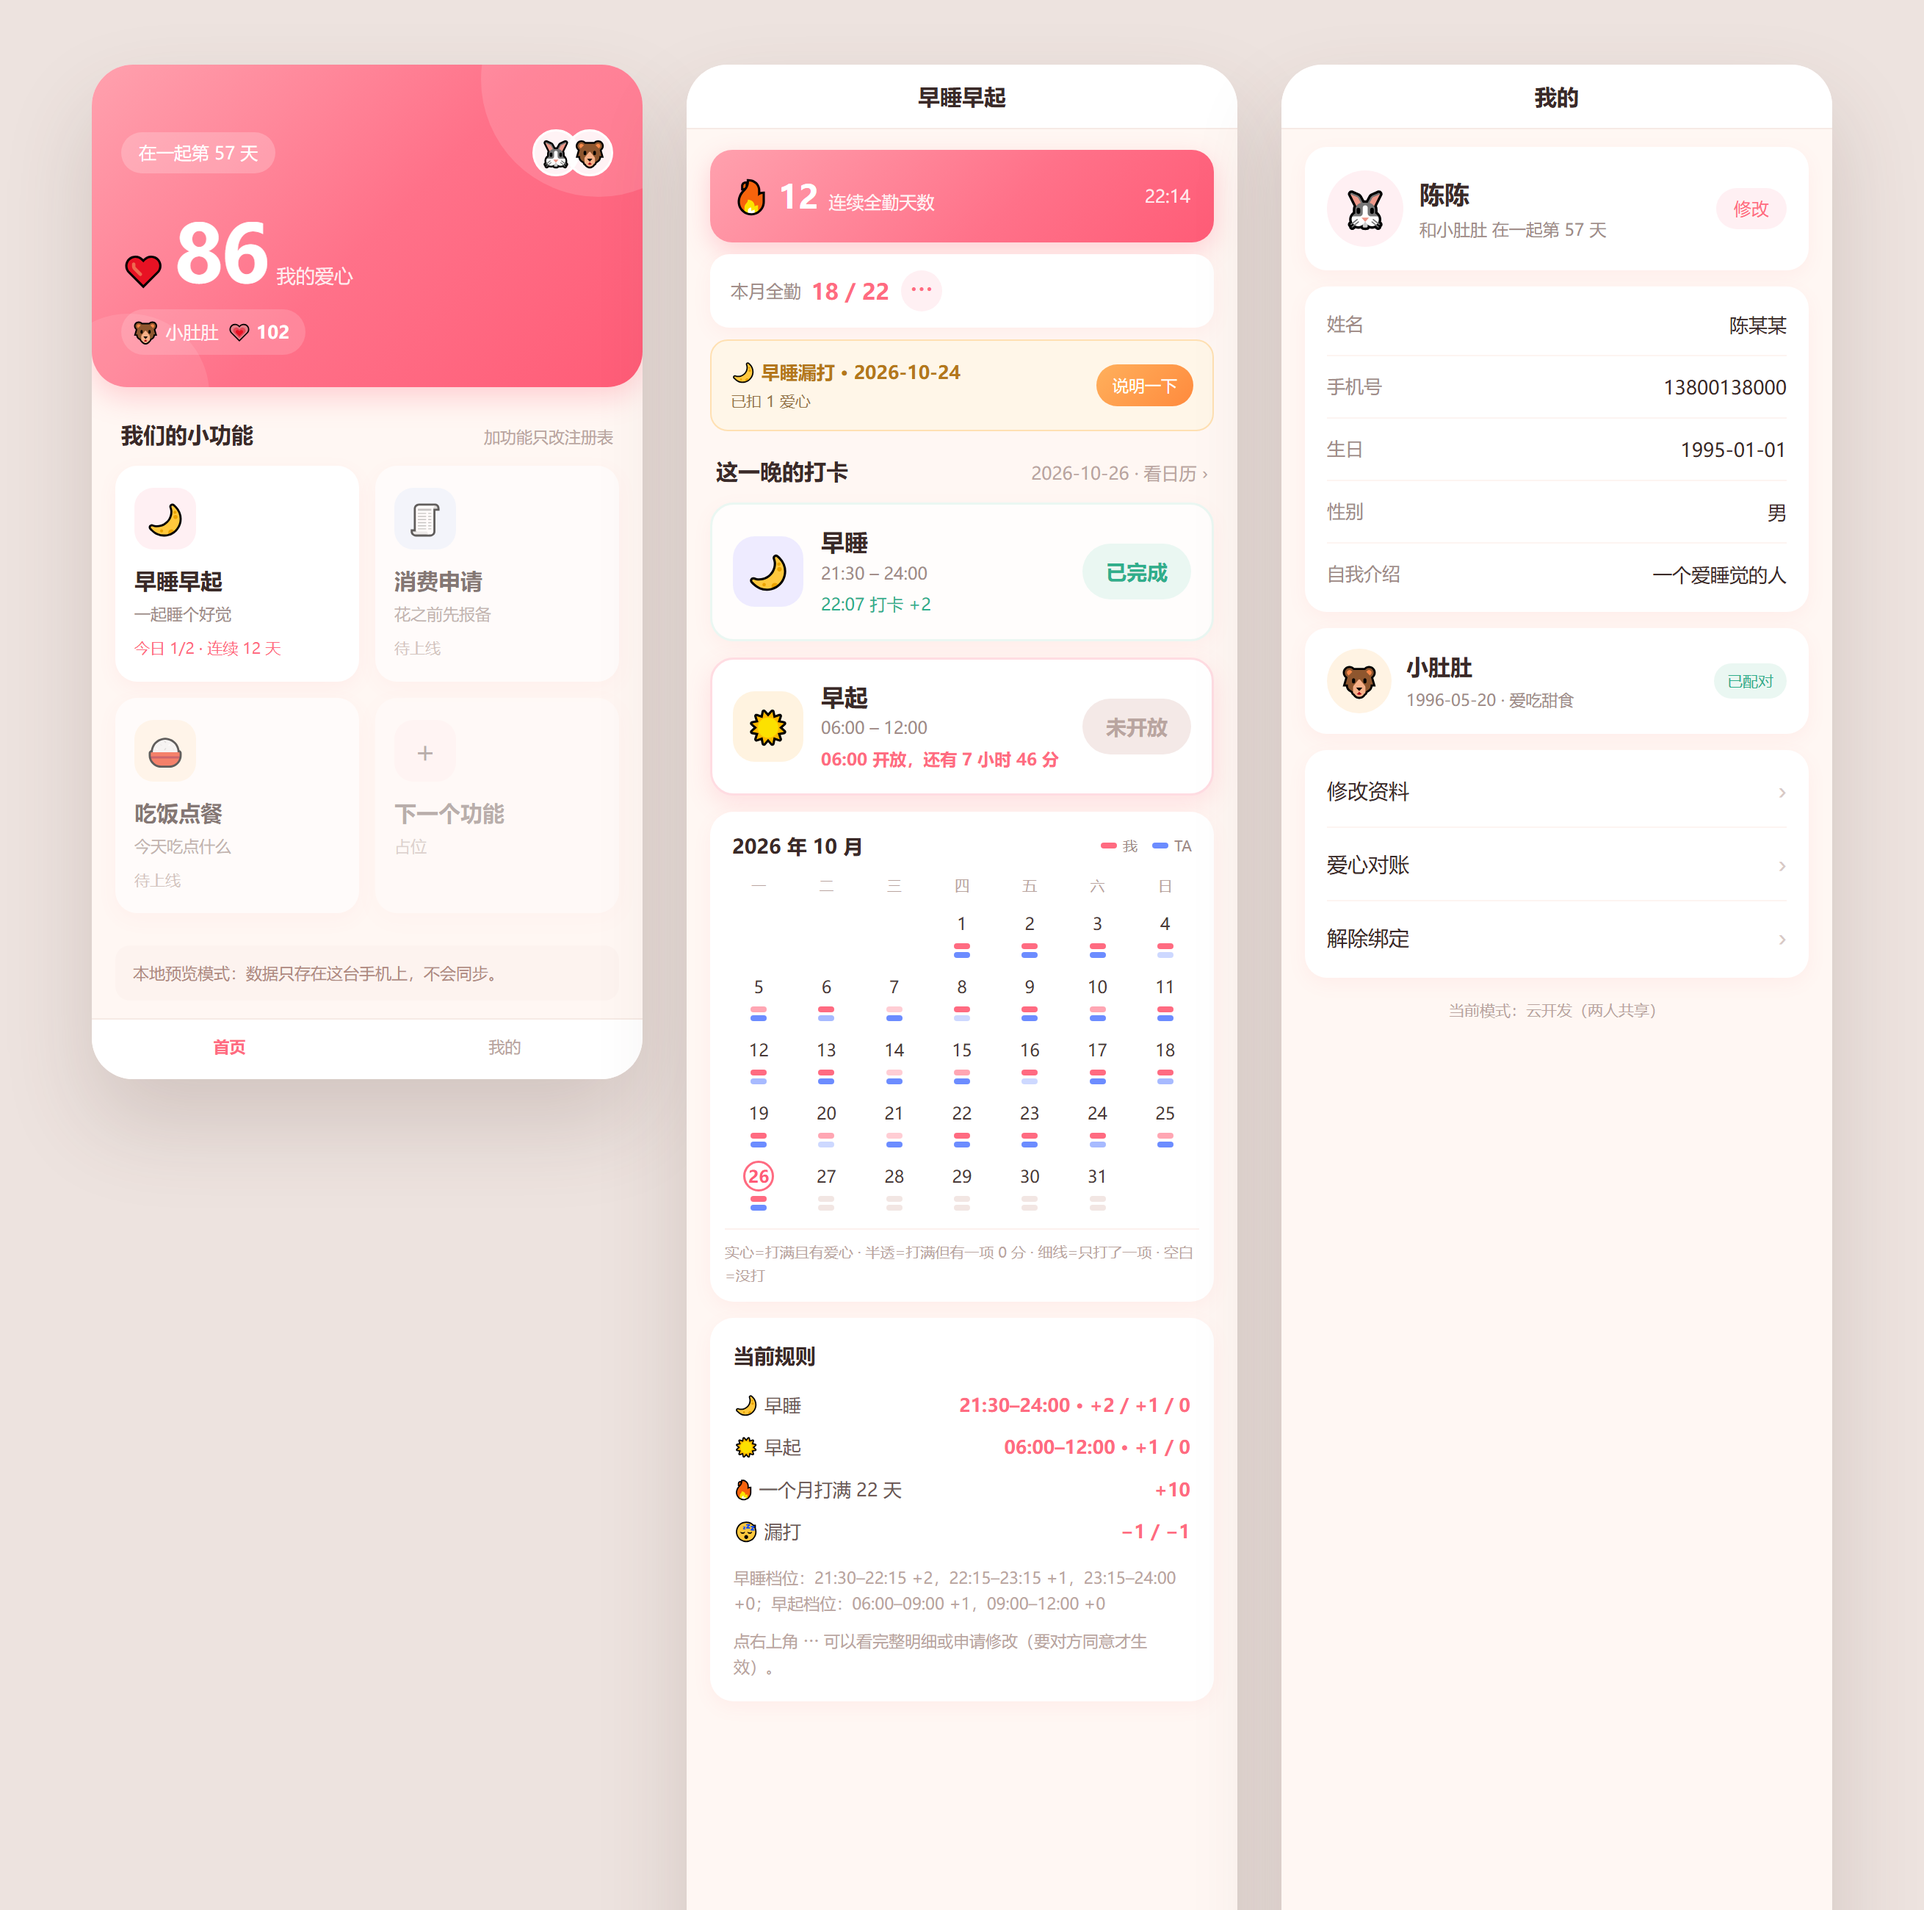
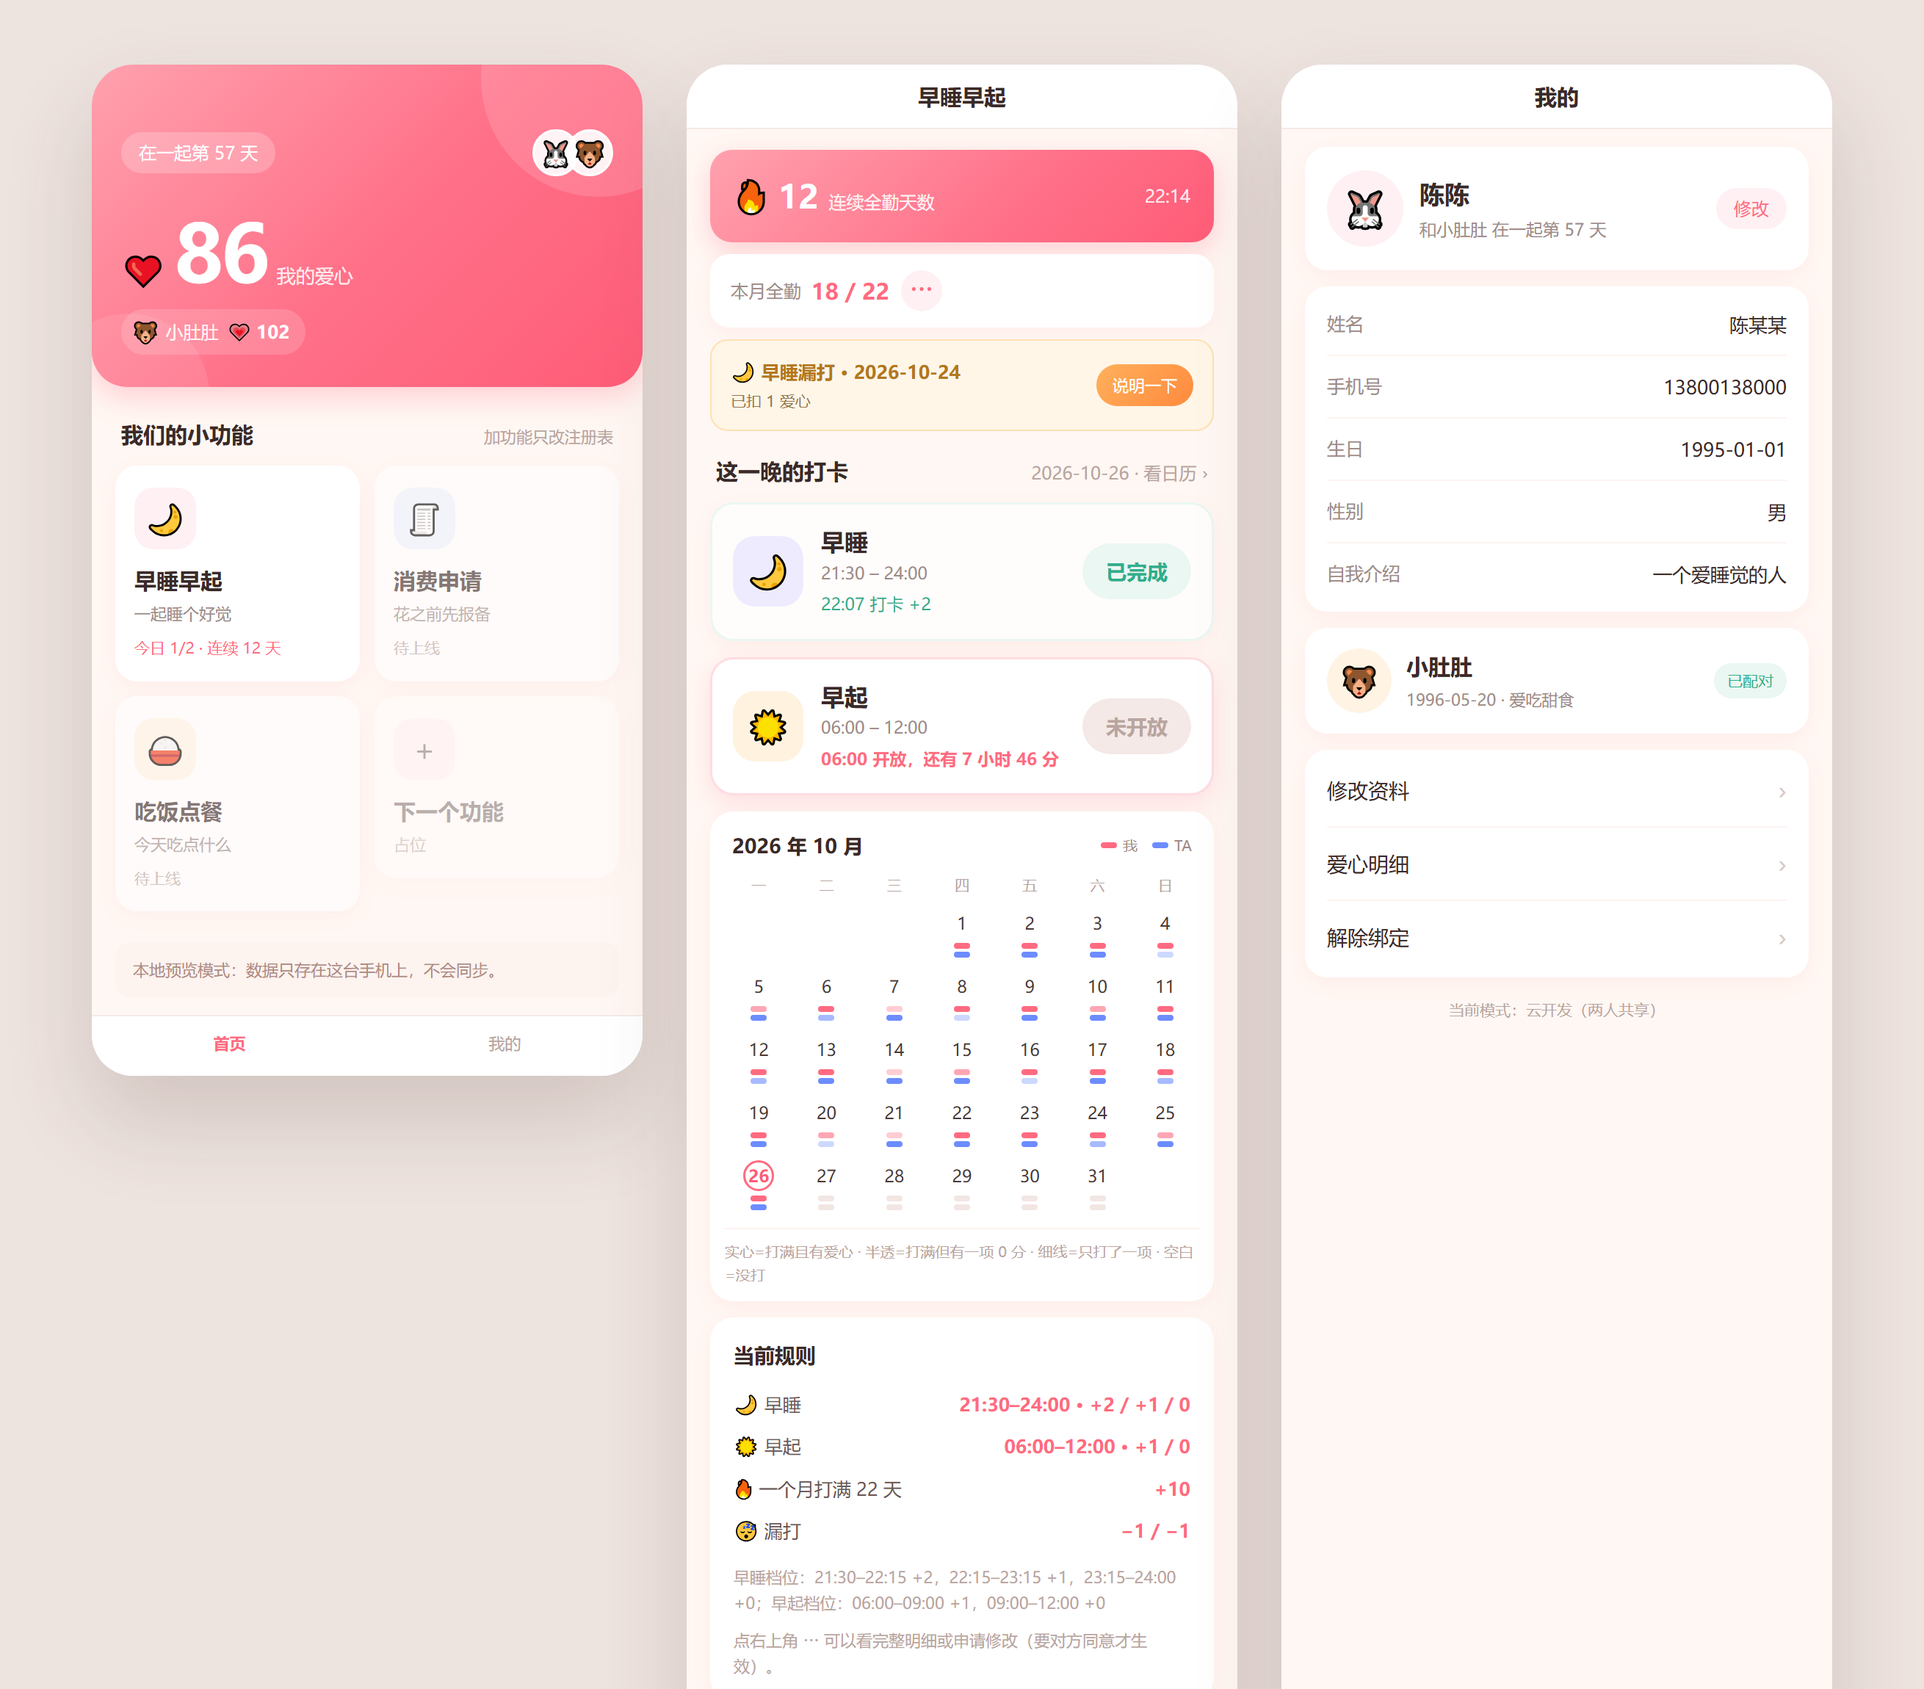
修宫格在部分机型变单列：改为每项精确 50% + 内边距做间隔，避免像素取整溢出

diff --git a/design/preview.html b/design/preview.html
@@ -365,10 +365,15 @@
 #p-home .grid{
   display: flex;
   flex-wrap: wrap;
+  margin: 0 -5px;
+}
+#p-home .grid-cell{
+  width: 50%;
+  box-sizing: border-box;
+  padding: 0 5px;
+  margin-bottom: 10px;
 }
 #p-home .grid-item{
-  width: calc(50% - 5.5px);
-  margin: 0 11px 11px 0;
   padding: 15px 13px;
   background: #FFFFFF;
   border-radius: 15px;
@@ -376,9 +381,6 @@
   position: relative;
   overflow: hidden;
   transition: transform 0.15s ease;
-}
-#p-home .grid-item:nth-child(2n){
-  margin-right: 0;
 }
 #p-home .grid-item:active{
   transform: scale(0.975);
@@ -1272,28 +1274,36 @@
     </div>
 
     <div class="grid">
-      <div class="grid-item">
-        <div class="gi-emoji pink">🌙</div>
-        <div class="gi-name">早睡早起</div>
-        <div class="gi-desc">一起睡个好觉</div>
-        <div class="gi-sub">今日 1/2 · 连续 12 天</div>
+      <div class="grid-cell">
+        <div class="grid-item">
+          <div class="gi-emoji pink">🌙</div>
+          <div class="gi-name">早睡早起</div>
+          <div class="gi-desc">一起睡个好觉</div>
+          <div class="gi-sub">今日 1/2 · 连续 12 天</div>
+        </div>
       </div>
-      <div class="grid-item is-off">
-        <div class="gi-emoji blue">🧾</div>
-        <div class="gi-name">消费申请</div>
-        <div class="gi-desc">花之前先报备</div>
-        <div class="gi-sub">待上线</div>
+      <div class="grid-cell">
+        <div class="grid-item is-off">
+          <div class="gi-emoji blue">🧾</div>
+          <div class="gi-name">消费申请</div>
+          <div class="gi-desc">花之前先报备</div>
+          <div class="gi-sub">待上线</div>
+        </div>
       </div>
-      <div class="grid-item is-off">
-        <div class="gi-emoji orange">🍚</div>
-        <div class="gi-name">吃饭点餐</div>
-        <div class="gi-desc">今天吃点什么</div>
-        <div class="gi-sub">待上线</div>
+      <div class="grid-cell">
+        <div class="grid-item is-off">
+          <div class="gi-emoji orange">🍚</div>
+          <div class="gi-name">吃饭点餐</div>
+          <div class="gi-desc">今天吃点什么</div>
+          <div class="gi-sub">待上线</div>
+        </div>
       </div>
-      <div class="grid-item is-off" style="opacity:.35">
-        <div class="gi-emoji pink">＋</div>
-        <div class="gi-name">下一个功能</div>
-        <div class="gi-desc">占位</div>
+      <div class="grid-cell">
+        <div class="grid-item is-off" style="opacity:.35">
+          <div class="gi-emoji pink">＋</div>
+          <div class="gi-name">下一个功能</div>
+          <div class="gi-desc">占位</div>
+        </div>
       </div>
     </div>
 
@@ -1425,7 +1435,7 @@
 
     <div class="actions">
       <div class="action"><span>修改资料</span><span class="arrow">›</span></div>
-      <div class="action"><span>爱心对账</span><span class="arrow">›</span></div>
+      <div class="action"><span>爱心明细</span><span class="arrow">›</span></div>
       <div class="action danger"><span>解除绑定</span><span class="arrow">›</span></div>
     </div>
 
